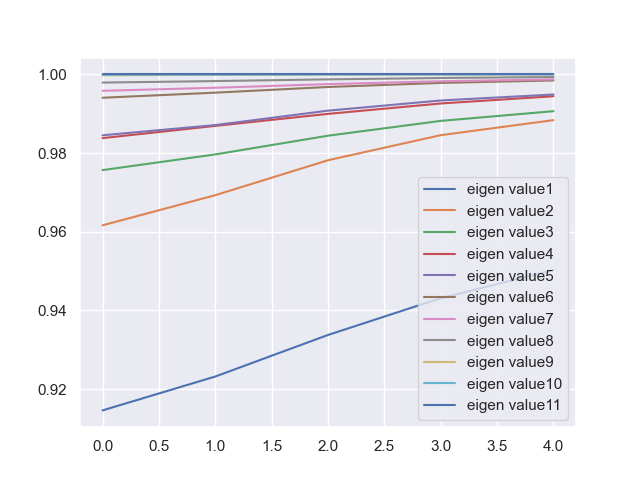
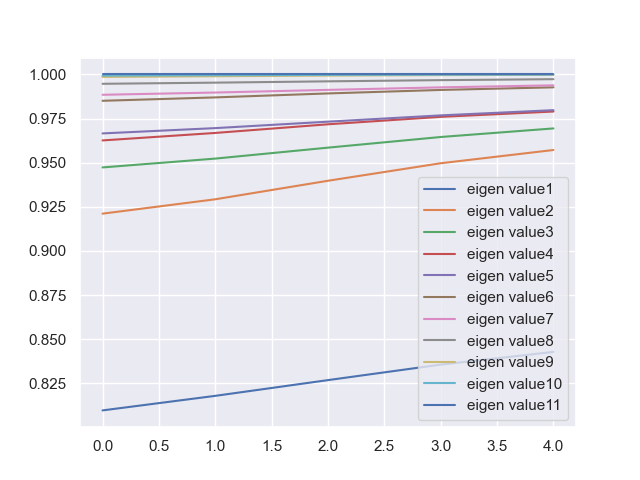
update Y&sigma iteratively

diff --git a/code/tSNE_v4_2.py b/code/tSNE_v4_2.py
@@ -230,6 +230,8 @@ def gk_grad(Y,num_eigen, sigmas, UPDATE_SIGMA = True, min_k = False):
 
     if UPDATE_SIGMA:
         grad_sigma = cal_gsigma_K(grad_LK, Y, Kval, sigma2)
+        print('-------gradient of sigma -------')
+        print(grad_sigma)
     else:
         grad_sigma = 0
 
@@ -340,11 +342,12 @@ def estimate_sne(X, y, P, num_iters, q_fn, learning_rate1, learning_rate2, momen
         Y_update = Y[choice, :]
         P2 = P2[np.ix_(choice, choice)]
         Q, distances = q_fn(Y_update)
-        grads_Y, grad_sigma = tsne_grad(P2, Q, Y_update, distances, beta2, beta_3, num_eigen, sigmas, UPDATE_SIGMA = False, min_k = min_k)
+        grads_Y, grad_sigma = tsne_grad(P2, Q, Y_update, distances, beta2, beta_3, num_eigen, sigmas, UPDATE_SIGMA = True, min_k = min_k)
         # Update Y
         Y_update = Y_update - learning_rate1 * grads_Y
         # Update Sigma
-        sigmas -= learning_rate2 * grad_sigma
+        if i > num_iters - lst_stage:
+            sigmas -= learning_rate2 * grad_sigma
         sigmas_list.append(sigmas)
         print(f'No.{i+1} sigma: '+ str(sigmas))
         # convert back to n*d

diff --git a/code/test_4.py b/code/test_4.py
@@ -12,7 +12,7 @@ Notes:
 """
 
 # import tSNE_min_k_1 as ts
-import  tSNE_v5 as ts
+import  tSNE_v4_2 as ts
 from sklearn import datasets
 import pandas as pd
 import matplotlib.pyplot as plt
@@ -47,7 +47,7 @@ BETA = 1e0  # change with delta Y
 BETA_2 = 0.5e-2
 NUM_EIGEN = 10
 RDSEED = 1
-SIGMA = 1e0
+SIGMA = 1.5e0
 MINK = 0
 # data = datasets.load_digits()
 # NUM_SAMPLE = 800
